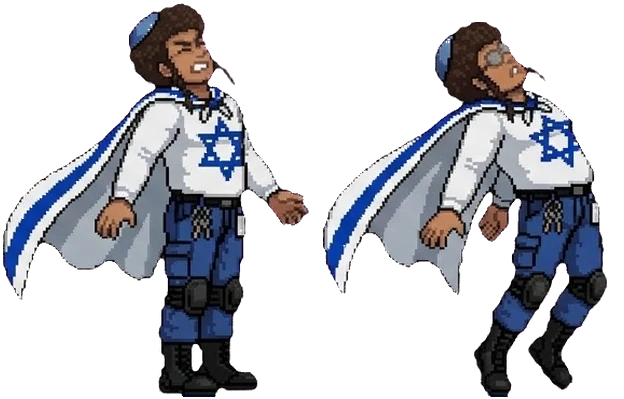
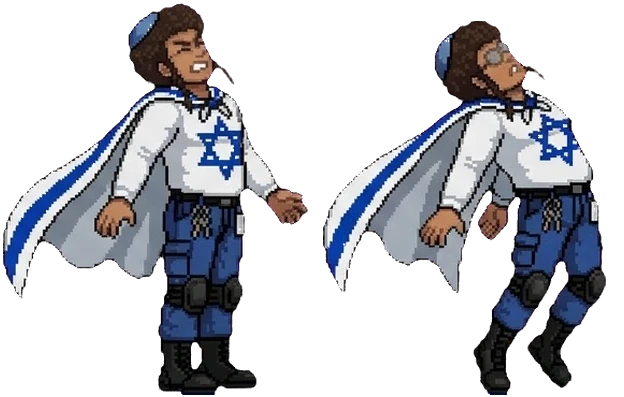
fix: kippah e stella di David non piu' trasparenti nella skin MATTEO SHALOM, v=53
- build_character --tieni-blu: toglie solo il blu delle linee guida dritte (guide_lines), non
  quello del disegno; sprite della skin rigenerati, KO ripulito dalla figura in piedi

Story: skin

Claude-Session: https://claude.ai/code/session_01P1JT64VZ5V9vmBLWg7Znu1

diff --git a/index.html b/index.html
@@ -196,7 +196,7 @@ const TOR=[6,5,7],TLV=[2,3,5];
 /* sprite dei personaggi: 1 riga per animazione in assets/characters/<nome>/, corpo in piedi normalizzato a 400px, piedi sul bordo inferiore, rivolti a destra.
    n = frame per animazione; pj = proiettile dello speciale (pjn frame); spT = soglie (tick) dei frame dello speciale se diverse dallo standard.
    hit/win sono opzionali: se mancano si usa la posa idle (inclinata quando colpito). */
-const SPRB=400,VER=52,SPRSET={
+const SPRB=400,VER=53,SPRSET={
 BEPPE:{d:'beppe',n:{idle:4,walk:4,punch:5,kick:5,heavy:5,jump:3,block:1,crouch:1,special:3,hit:1,fall:3,ko:1,win:2},pj:'pallet',pjn:1,pjw:50,pjh:39.3,pjo:[62,-84],spT:[6,11]},
 MATTEO:{d:'matteo',n:{idle:1,walk:2,punch:5,kick:5,heavy:5,jump:3,block:1,crouch:1,special:3,hit:1,fall:3,ko:1,win:3},pj:'matteo-cart',pjn:3,pjf:0,pjt:1,pjh:71.3,pjy:-40.8,spT:[5,11]},
 VLAD:{d:'vlad',sc:1.05,n:{idle:1,walk:2,punch:5,kick:5,heavy:5,jump:3,block:1,crouch:1,special:3,hit:1,fall:2,ko:1,win:2},pj:'vlad-spray',pjn:3,pjs:.6,pjo:[33.8,-83.5],pji:1,spT:[5,11]},

diff --git a/tools/build_character.py b/tools/build_character.py
@@ -44,6 +44,19 @@ ANIMS = [('idle', ['idle']), ('walk', ['idle', 'walk']),
          ('hit', ['hit']), ('fall', ['hit', 'fall']), ('ko', ['ko']), ('win', ['win_0', 'win_1'])]
 
 
+# --tieni-blu: il blu del personaggio (es. kippah, stella, divisa blu) non si tocca; si toglie solo il blu
+# che forma linee dritte e lunghe (guide e tratteggi), oltre al ciano e alla striscia delle etichette
+KEEP_BLUE = False
+
+
+def guide_lines(blue, n=60, gap=14):
+    """pixel blu che stanno su una linea orizzontale o verticale lunga almeno n px (i tratteggi con
+    buchi fino a gap px contano come linea intera), un po' allargati per prendere l'alone del JPEG"""
+    h = nd.binary_opening(nd.binary_closing(blue, np.ones((1, gap))), np.ones((1, n)))
+    v = nd.binary_opening(nd.binary_closing(blue, np.ones((gap, 1))), np.ones((n, 1)))
+    return nd.binary_dilation(h | v, iterations=2) & blue
+
+
 def load_sheet(path, sheet):
     """RGBA float con sfondo magenta e guide ciano trasparenti.
     Il ciano puro si toglie ovunque. Le sue sfumature (ciano mescolato al magenta e al JPEG: toni
@@ -80,6 +93,12 @@ def load_sheet(path, sheet):
         for xx in (x0, x1 - 1):
             zone[y0:y1, max(0, xx - band):xx + band] = True
         zone[int(y0 + g['feet'] * (y1 - y0)) - band:y1, x0:x1] = True   # linea dei piedi ed etichetta
+    if KEEP_BLUE:
+        strip = np.zeros((H, W), bool)   # striscia delle etichette sotto la linea dei piedi: tutto via
+        for c, (x0, y0, x1, y1) in cell_boxes(sheet, W, H):
+            strip[int(y0 + g['feet'] * (y1 - y0)) + band:int(y1), int(x0):int(x1)] = True
+        o[..., 3][cyan | (blue & zone & (guide_lines(blue) | strip))] = 0
+        return o
     o[..., 3][cyan | (blue & zone)] = 0
     return o
 
@@ -140,7 +159,12 @@ def main():
     ap.add_argument('--cella', action='append', default=[], metavar='ID=FOGLIO',
                     help='prende la casella ID da un\'altra versione dello stesso foglio '
                          '(es. win_1=IMG_5452.jpeg); ripetibile')
+    ap.add_argument('--tieni-blu', action='store_true',
+                    help='il personaggio ha parti blu (kippah, stemmi, divisa): toglie solo il blu delle '
+                         'linee guida dritte, non quello del disegno')
     a = ap.parse_args()
+    global KEEP_BLUE
+    KEEP_BLUE = a.tieni_blu
     name = a.name.lower()
     out_dir = a.out or os.path.join(HERE, '..', 'assets', 'characters', name)
     os.makedirs(out_dir, exist_ok=True)

diff --git a/README.md b/README.md
@@ -79,7 +79,8 @@ collegamento diretto: in quel caso servirebbe un server TURN.
    lancia `tools/to_webp.py`, che converte anche le cartelle `skin-*`). Un file che manca resta quello
    originale: una skin può cambiare anche solo alcune animazioni.
    Dai fogli pose: `python3 -B tools/build_character.py <nome> <A> <B> <C> --out
-   assets/characters/<nome>/skin-<id>`; vista per la selezione: aggiungi la tavola in `BOARDS` di
+   assets/characters/<nome>/skin-<id>` (aggiungi `--tieni-blu` se la skin ha parti blu, come kippah e
+   stella di MATTEO SHALOM: altrimenti la pulizia delle linee guida azzurre le buca); vista per la selezione: aggiungi la tavola in `BOARDS` di
    `tools/build_fronts.py` (chiave `<nome>/skin-<id>`) e lancia `build_fronts.py <nome>/skin-<id>`.
 2. Aggiungi la skin in `SKINS` dentro `index.html`, es. `BEPPE:[{id:'natale',n:'BABBO BEPPE',p:400}]`
    (`n` nome nel negozio, `p` prezzo in cedolini; `nf` se un'animazione ha un numero di fotogrammi
